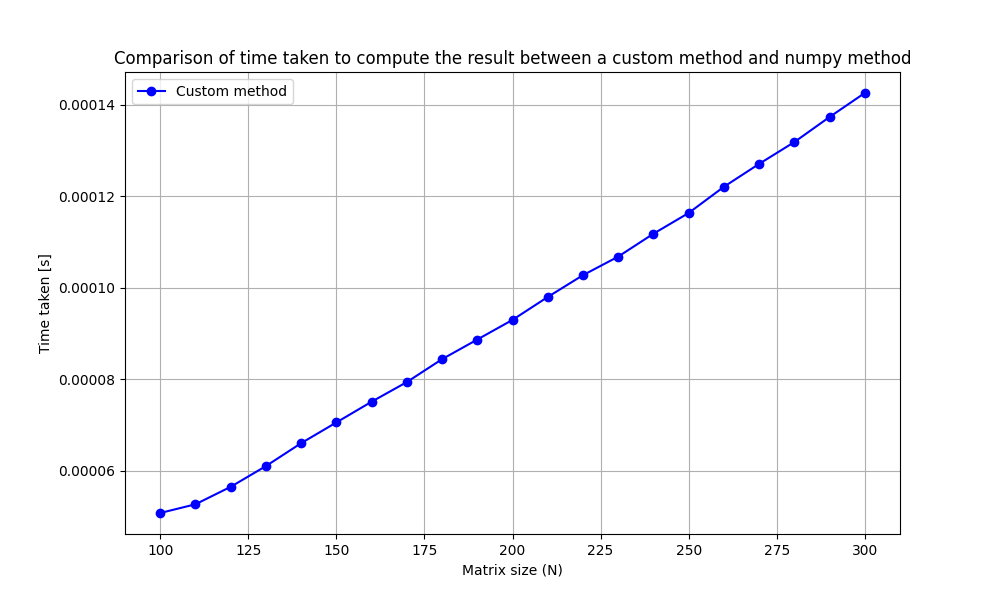
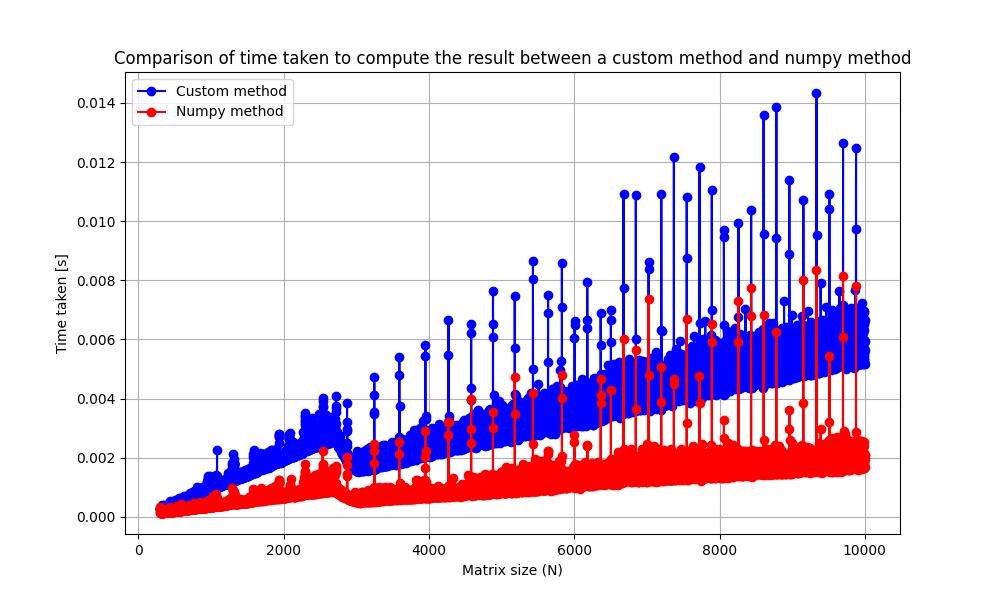
num3 finished

diff --git a/num3/num3.py b/num3/num3.py
@@ -1,6 +1,7 @@
 from functools import reduce
 import time
-import numpy as np
+import numpy as np 
+from scipy import linalg
 import matplotlib.pyplot as plt
 
 def createMatrix(n: int) -> list:
@@ -53,7 +54,7 @@ def solveA(A: list, x: list, n: int) -> float:
 
 def graphTimes(values: list):
     times = []
-    
+    numpy_times = []    
     for value in values:
         A = createMatrix(value)
         x = createX(value)
@@ -64,12 +65,20 @@ def graphTimes(values: list):
         end = time.time()
         times.append(end - start)
 
+        start = time.time()
+        A_np = np.array(A)
+        x_np = np.array(x)
+        linalg.lu(A_np)
+        end = time.time()
+        numpy_times.append(end - start)
+
         determinant = reduce(lambda x, y: x * y, A[1])
         print(determinant)
     
     
     plt.figure(figsize=(10, 6))
     plt.plot(values, times, 'b-', label='Custom method', marker = 'o')
+    plt.plot(values, numpy_times, 'r-', label='Numpy method', marker = 'o')
     plt.xlabel('Matrix size (N)')
     plt.ylabel('Time taken [s]')
     plt.title('Comparison of time taken to compute the result between a custom method and numpy method')
@@ -79,6 +88,5 @@ def graphTimes(values: list):
     plt.show()
 
 
-values = [100, 110, 120, 130, 140, 150, 160, 170, 180, 190, 200, 210, 220, 230, 240, 250, 260, 270, 280, 290, 300]
-
+values = [x for x in range(300, 1000)]
 graphTimes(values)
